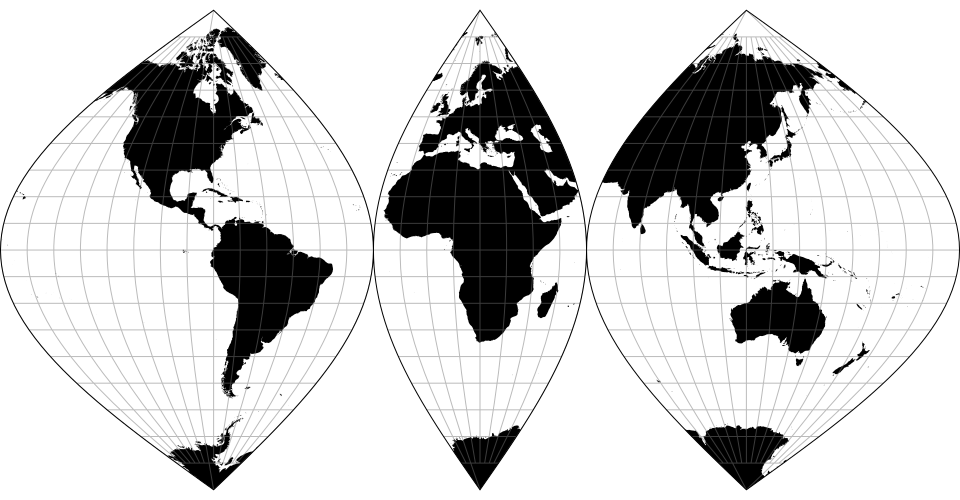
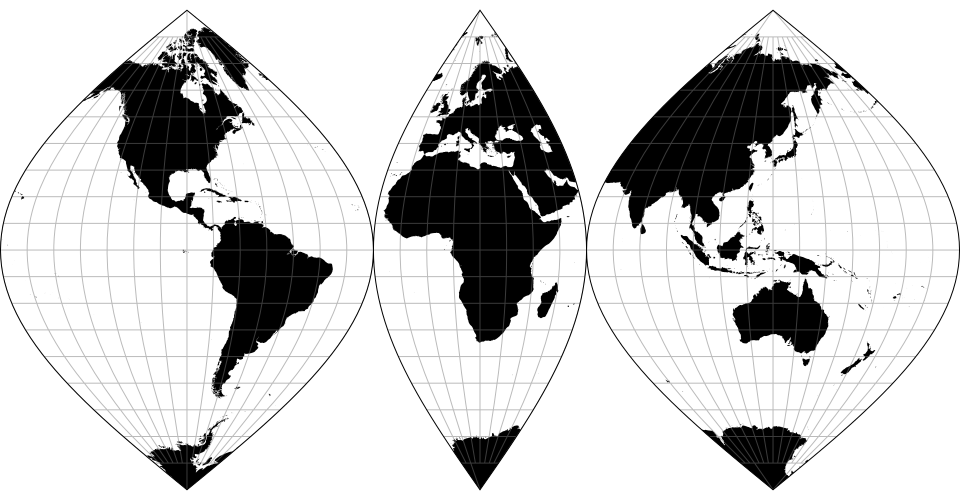
Fix d3.geoInterruptedSinusoidal lobes.

diff --git a/src/interruptedSinusoidal.js b/src/interruptedSinusoidal.js
@@ -2,13 +2,13 @@ import {sinusoidalRaw} from "./sinusoidal";
 import interrupt from "./interrupt";
 
 var lobes = [[ // northern hemisphere
-  [[-180,   0], [-100,  90], [ -40,   0]],
+  [[-180,   0], [-110,  90], [ -40,   0]],
   [[ -40,   0], [   0,  90], [  40,   0]],
-  [[  40,   0], [ 100,  90], [ 180,   0]]
+  [[  40,   0], [ 110,  90], [ 180,   0]]
 ], [ // southern hemisphere
-  [[-180,   0], [-100, -90], [ -40,   0]],
+  [[-180,   0], [-110, -90], [ -40,   0]],
   [[ -40,   0], [   0, -90], [  40,   0]],
-  [[  40,   0], [ 100, -90], [ 180,   0]]
+  [[  40,   0], [ 110, -90], [ 180,   0]]
 ]];
 
 export default function() {

diff --git a/README.md b/README.md
@@ -688,7 +688,7 @@ Goode’s interrupted [homolosine projection](#geoHomolosine).
 
 [<img src="https://raw.githubusercontent.com/d3/d3-geo-projection/master/img/interruptedSinusoidal.png" width="480" height="250">](http://bl.ocks.org/mbostock/4458991)
 
-An interrupted [sinusoidal projection](#geoSinusoidal).
+An interrupted [sinusoidal projection](#geoSinusoidal) with asymmetrical lobe boundaries that emphasize land masses over oceans, after the Swedish <i>Nordisk Världs Atlas</i> as reproduced by [C.A. Furuti](http://www.progonos.com/furuti/MapProj/Normal/ProjInt/projInt.html#InterruptedSansonFlamsteed).
 
 <a href="#geoInterruptedBoggs" name="geoInterruptedBoggs">#</a> d3.<b>geoInterruptedBoggs</b>()
 
